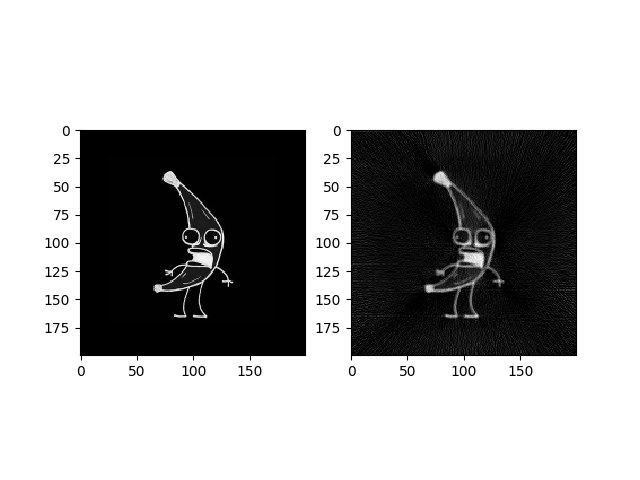
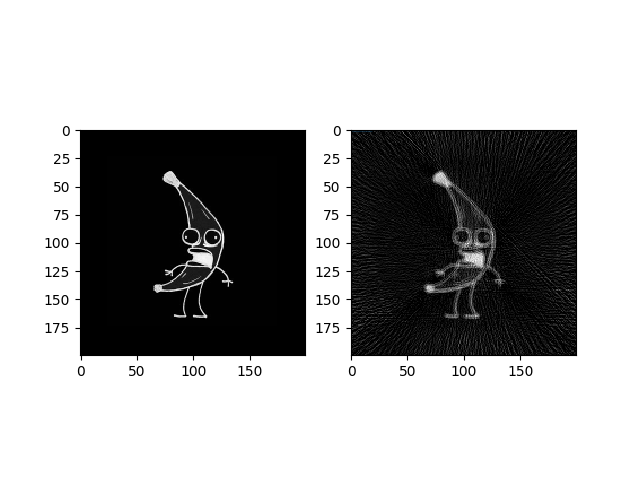
removed unnecessary code and comments

diff --git a/tomograf/tomograph.py b/tomograf/tomograph.py
@@ -12,15 +12,12 @@ import iradon
 from matplotlib import pyplot as plt
 from skimage.color import rgb2gray
 from skimage import io
-from dicom.dataset import Dataset, FileDataset
 import numpy as np
-import datetime
-import time
 from sklearn.metrics import mean_squared_error
 
 global_width = 90
-global_detector_amount = 360
-global_alpha = 1
+global_detector_amount = 180
+global_alpha = 2
 
 
 class Result:
@@ -40,25 +37,18 @@ class MyImage:
         self.original = picture_
 
     def img_to_sinogram(self):
-        # Should return array [n][n] which is result of the function  .. from  radon.py
-        # lines n x n x 4 array of lines
         self.sinogram, self.lines = radon.img_to_sinogram(self.original, width=global_width,
                                                           detector_amount=global_detector_amount, alpha=global_alpha)
         fig, plots = plt.subplots(1, 2)
         plots[0].imshow(self.original, cmap='gray')
         plots[1].imshow(self.sinogram, cmap='gray')
         plt.show()
-        # print("Oryginalny obraz:")
-        # print(np.shape(self.original))
-        # print("Stenogram:")
-        # print(np.shape(self.sinogram))
         plt.savefig("sinogram.jpg")
         return self.sinogram
 
     def sinogram_to_img(self):
         self.reconstructed = iradon.sinogram_to_img(self.original, self.sinogram, self.lines)
         fig, plots = plt.subplots(1, 2)
-        # print("Końcowy obraz bez filtracji sinogramu")
         plots[0].imshow(self.original, cmap='gray')
         plots[1].imshow(self.reconstructed, cmap='gray')
         plt.show()
@@ -67,7 +57,6 @@ class MyImage:
     def filter_img(self):
         self.filtered = iradon.sinogram_to_img_f(self.original, self.sinogram, self.lines)
         fig, plots = plt.subplots(1, 2)
-        # print("Końcowy obraz z filtracją sinogramu")
         plots[0].imshow(self.original, cmap='gray')
         plots[1].imshow(self.filtered, cmap='gray')
         plt.show()

diff --git a/tomograf/iradon.py b/tomograf/iradon.py
@@ -52,12 +52,6 @@ def filter_img(img):
     new = mp.dilation(mp.erosion(new))
     return new
 
-
-def gamma(img, gamma):
-    new = img ** gamma
-    return new
-
-
 def normalise_img(reconstructed, helper):
     normalized = np.copy(reconstructed)
     picture_shape = np.shape(normalized)
@@ -123,7 +117,7 @@ def sinogram_to_img2(img, sinogram, lines, filename1, filename2, filter):
         if (filter):
             fragment[fragment[:, :] < 0] = 0
             fragment = rescale_intensity(fragment)
-        images.append(gamma(fragment, 1))
+        images.append(fragment)
         if (projection != 0 and projection % 10 == 0):
             mse[iterator] = mean_squared_error(img, fragment)
             iterator += 1
@@ -132,7 +126,7 @@ def sinogram_to_img2(img, sinogram, lines, filename1, filename2, filter):
     if (filter):
         fragment[fragment[:, :] < 0] = 0
         fragment = rescale_intensity(fragment)
-    images.append(gamma(fragment, 1))
+    images.append(fragment)
     mse[iterator] = mean_squared_error(img, fragment)
     iterator += 1
 
@@ -140,11 +134,11 @@ def sinogram_to_img2(img, sinogram, lines, filename1, filename2, filter):
 
     if (filter):
         reconstructed = filter_img(fragment)
-        images.append(gamma(reconstructed, 1))
+        images.append(reconstructed)
         mse[iterator] = mean_squared_error(img, reconstructed)
     else:
         reconstructed = fragment
-        images.append(gamma(reconstructed, 1))
+        images.append(reconstructed)
         mse[iterator] = mean_squared_error(img, reconstructed)
     iterator += 1
 
